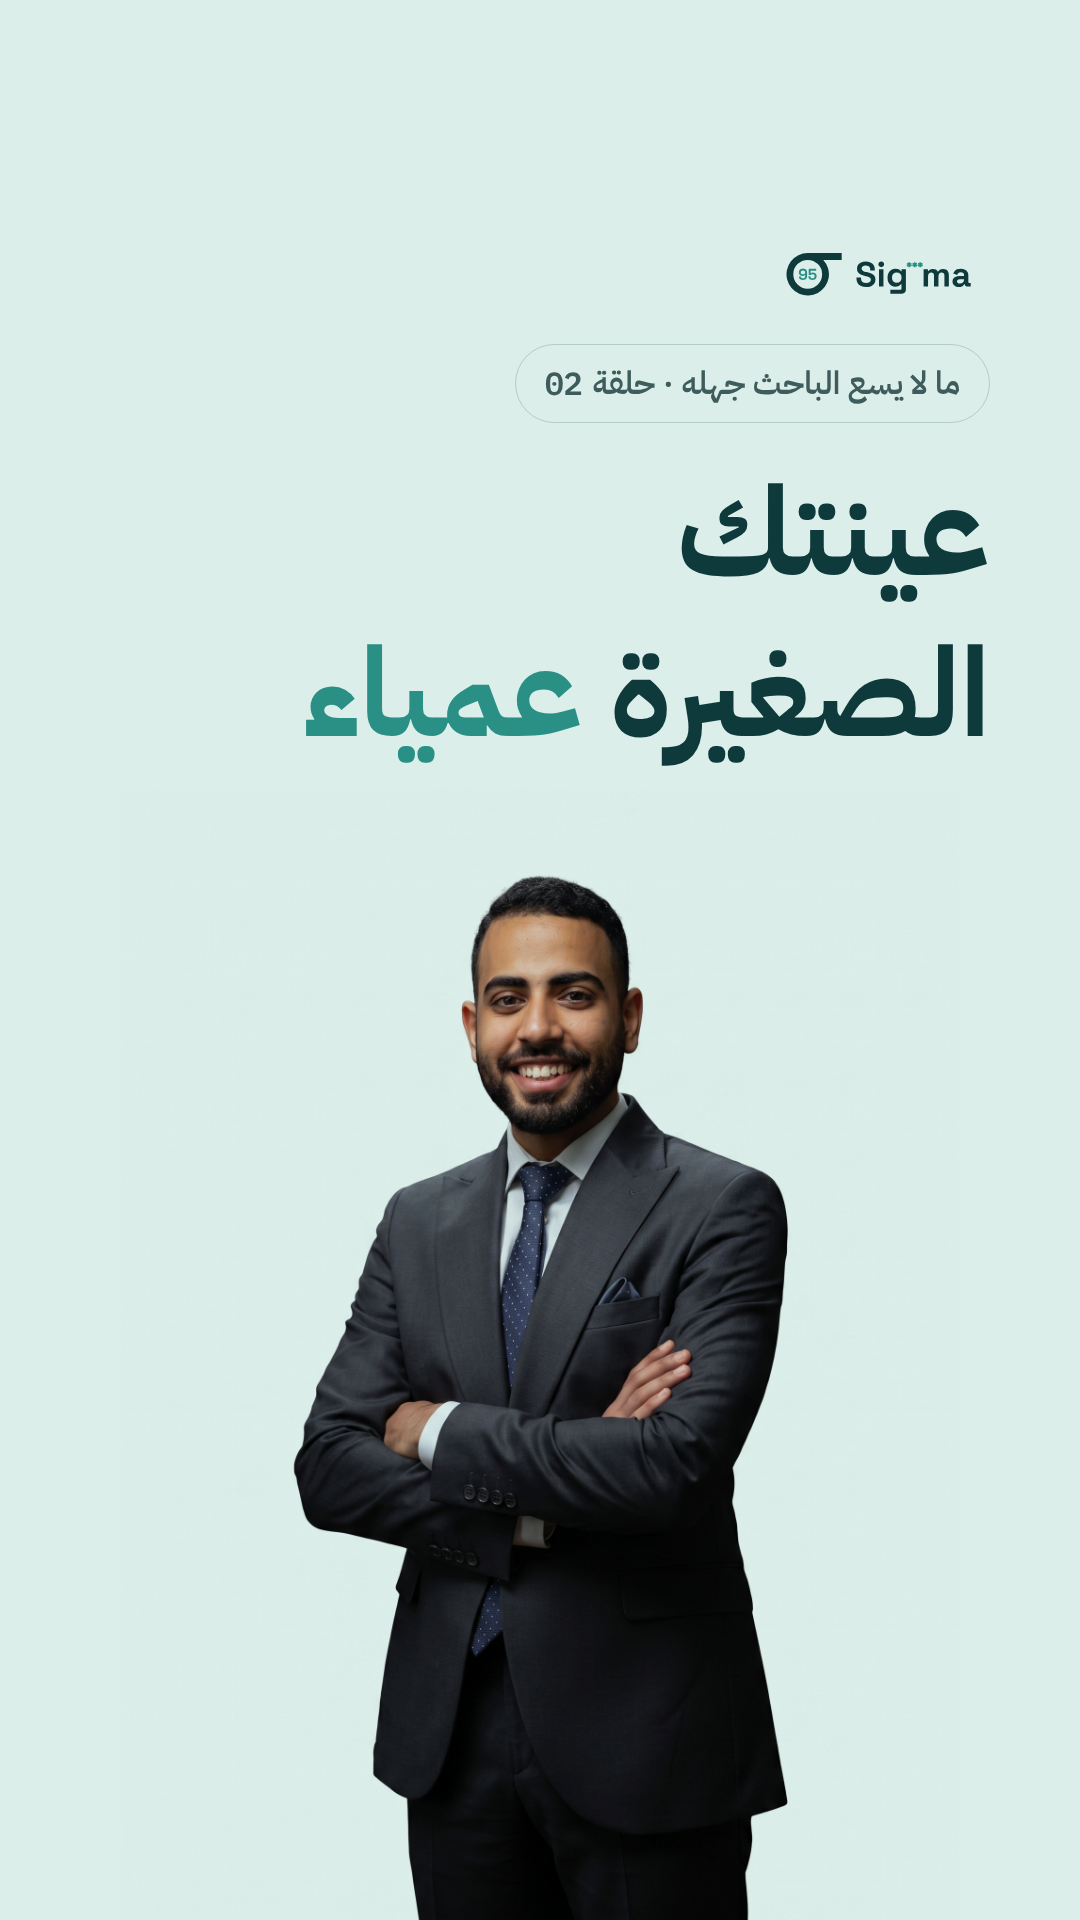
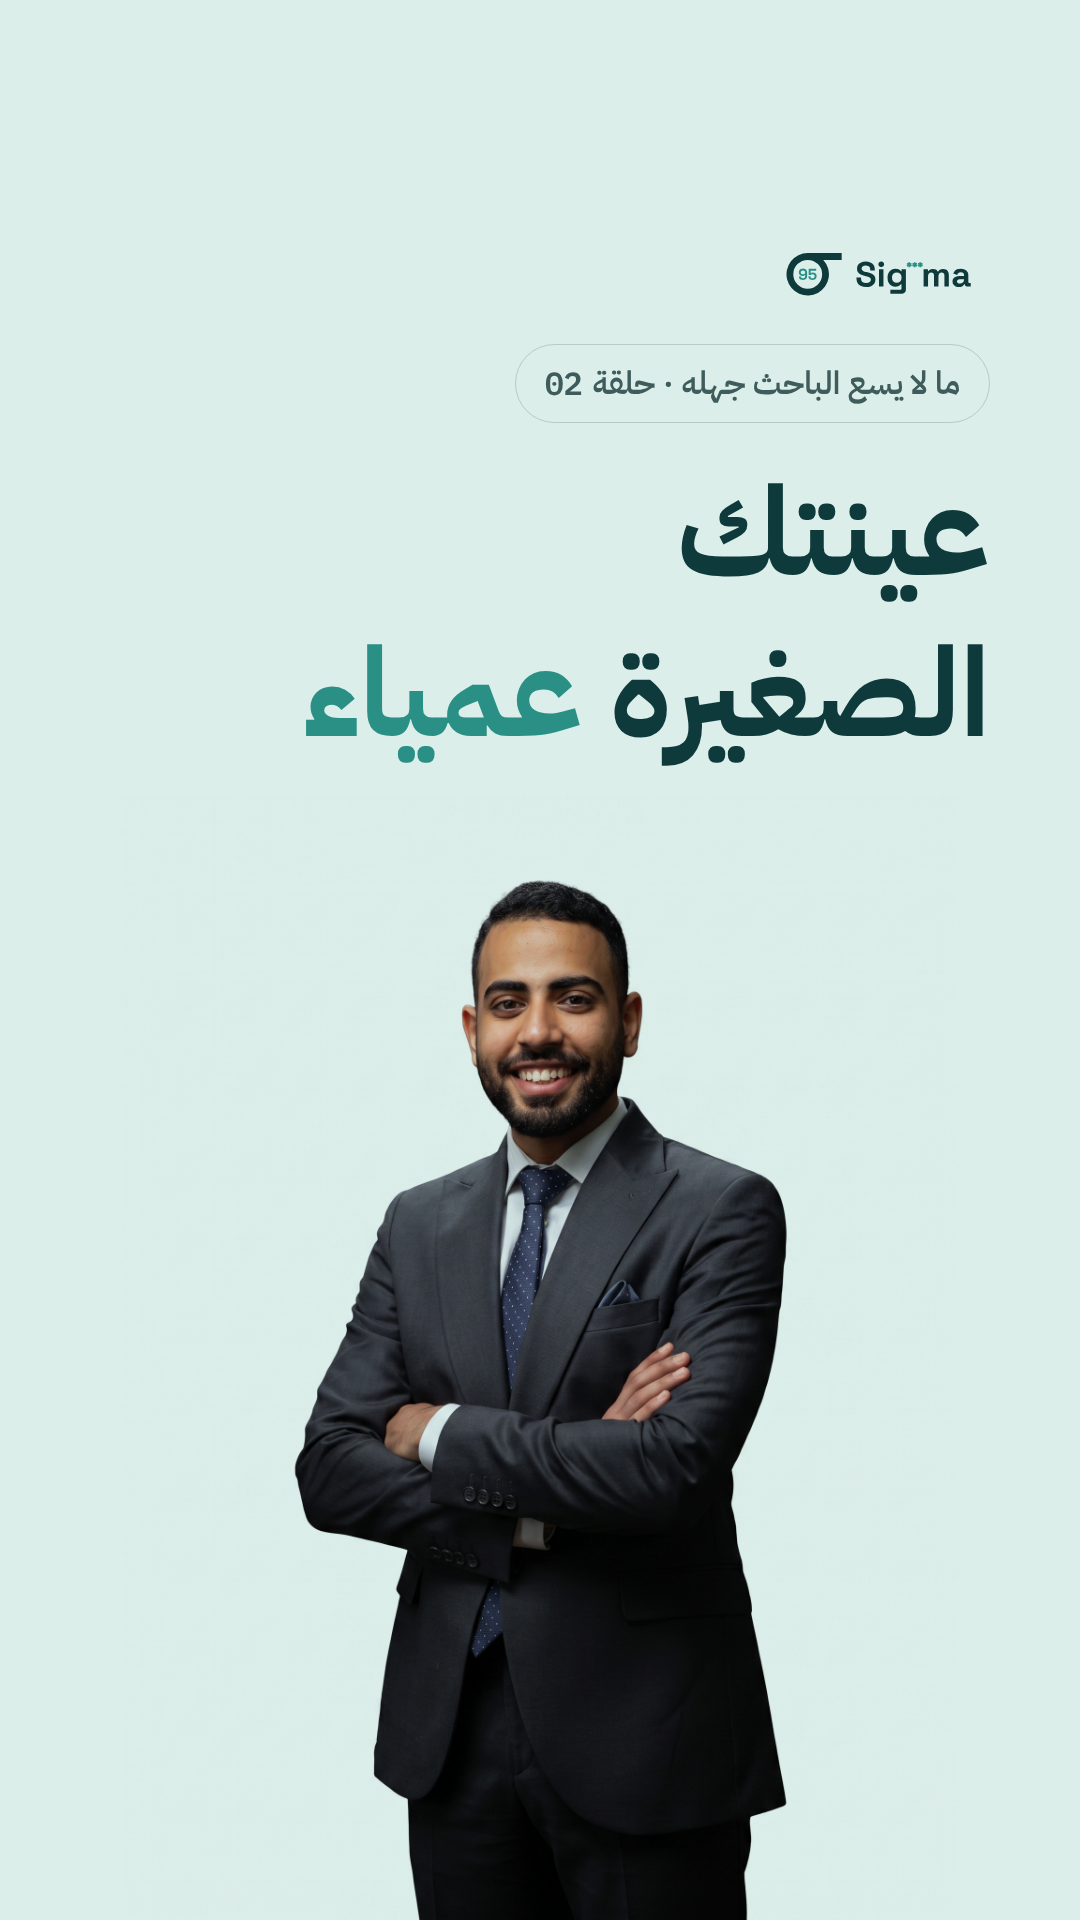
Use Mohamed's title on the photo reel cover; allow line breaks in titles
Adds a softer variant ("ممكن تكون") and sizes the portrait below long
titles so the text never touches the head.

Claude-Session: https://claude.ai/code/session_017hYYDaVh6HeMnNEX79sg3Z

diff --git a/templates/card.html b/templates/card.html
@@ -44,7 +44,7 @@ em.hl{font-style:normal;color:var(--accent)}
 .pill{display:inline-flex;align-items:center;gap:10px;border-radius:999px;background:var(--accent-soft);
   color:var(--accent-strong);font-weight:600;white-space:nowrap}
 .pill.ghost{background:transparent;border:1.5px solid var(--border-strong);color:var(--text-2)}
-.title{font-weight:700;line-height:1.3;letter-spacing:0;text-wrap:balance;overflow:hidden}
+.title{font-weight:700;line-height:1.3;letter-spacing:0;text-wrap:balance;white-space:pre-line;overflow:hidden}
 .sub{color:var(--text-2);font-weight:400;line-height:1.55;text-wrap:pretty}
 .viz{flex:1 1 auto;min-height:0;position:relative;display:flex;flex-direction:column;justify-content:center}
 .panel{background:var(--surface);border:1px solid var(--border);border-radius:14px}
@@ -387,8 +387,11 @@ var layouts = {
       var lg = el("img"); lg.src = logoSrc(); Object.assign(lg.style, {height:"84px", width:"auto", maxWidth:"none", alignSelf:"flex-start"});
       C.appendChild(lg);
       var tr = topRow(32); if(tr) C.appendChild(tr);
-      var t = el("h1", "title", rich(S.title)); C.appendChild(t); fit(t, 124, 70, 430);
-      addPortrait({height:"1130px", left:"50%", transform:"translateX(-50%)"});
+      var t = el("h1", "title", rich(S.title)); C.appendChild(t); fit(t, 124, 70, 520);
+      // Size the portrait to start just below the title so long titles never touch the head.
+      var tb = t.getBoundingClientRect().bottom - C.getBoundingClientRect().top;
+      var ph = Math.max(880, Math.min(1130, F.h - tb - 20));
+      addPortrait({height:ph + "px", left:"50%", transform:"translateX(-50%)"});
       return;
     }
     layoutStandard({pad:90, top:230, bottom:400, gap:40, labelPx:32, titleMax:118, titleMin:70, titleH:560, subPx:40, logoH:96, footPad:28, urlPx:28, k:1.15, vizPanel:false});
